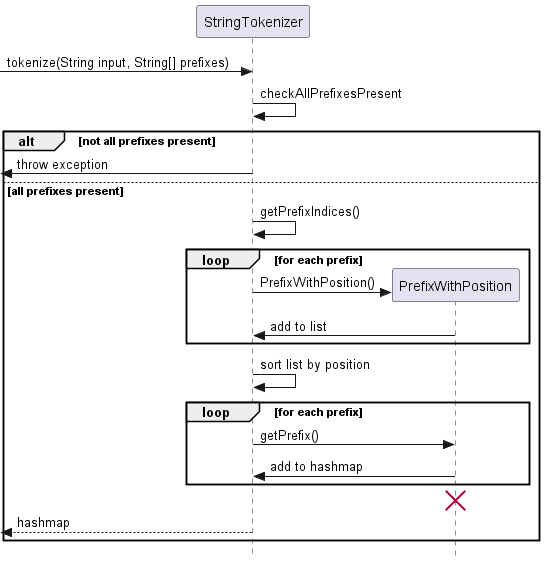
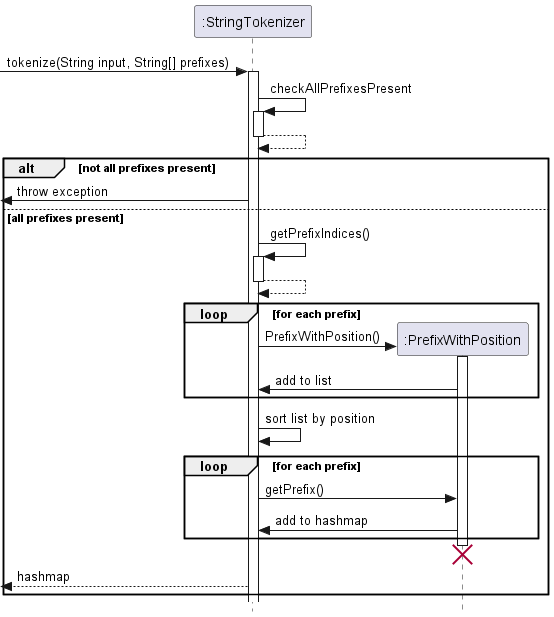
Update DG

Changed region(s): [[0.0, 0.0, 0.9982, 0.9663]]

diff --git a/src/main/java/cashleh/parser/Parser.java b/src/main/java/cashleh/parser/Parser.java
@@ -35,9 +35,9 @@ import java.util.HashMap;
 import java.util.OptionalDouble;
 
 public class Parser {
-    private static final String ADD_INCOME = "addIncome";
-    private static final String DELETE_INCOME = "deleteIncome";
-    private static final String VIEW_INCOMES = "viewIncomes";
+    private static final String ADD_INCOME = "addincome";
+    private static final String DELETE_INCOME = "deleteincome";
+    private static final String VIEW_INCOMES = "viewincomes";
 
     private static final String ADD_EXPENSE = "addExpense";
     private static final String DELETE_EXPENSE = "deleteExpense";

diff --git a/docs/DeveloperGuide.md b/docs/DeveloperGuide.md
@@ -85,6 +85,7 @@ Delimiters can also be specified as optional by adding ":optional" to the end. T
 The tokenize function is implemented by the StringTokenizer class. It takes in the user input and the prefixes array and returns a hashmap of the user input.
 
 ![](./images/stringTokenizer.png)
+> Note: The lifeline for PrefixWithPosition should end at the destroy marker (X) but due to a limitation of PlantUML, the lifeline reaches the end of diagram.
 
 **Step 1**\
 Check if all necessary prefixes are present in the user input. If not, throw an exception.
